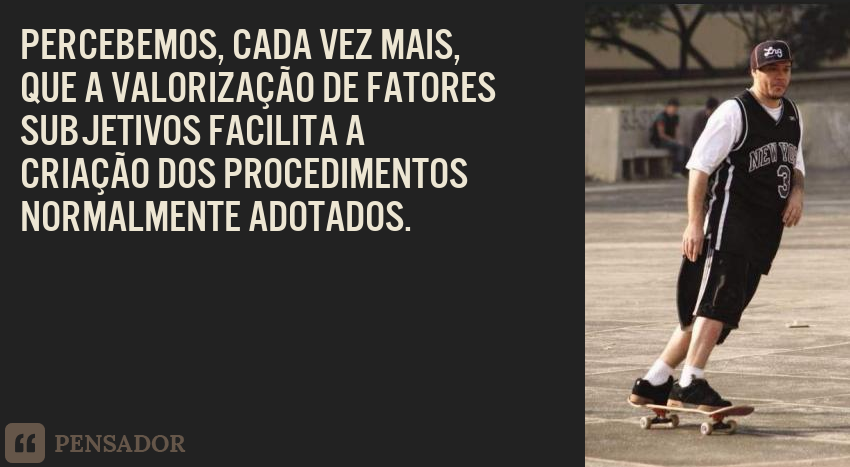
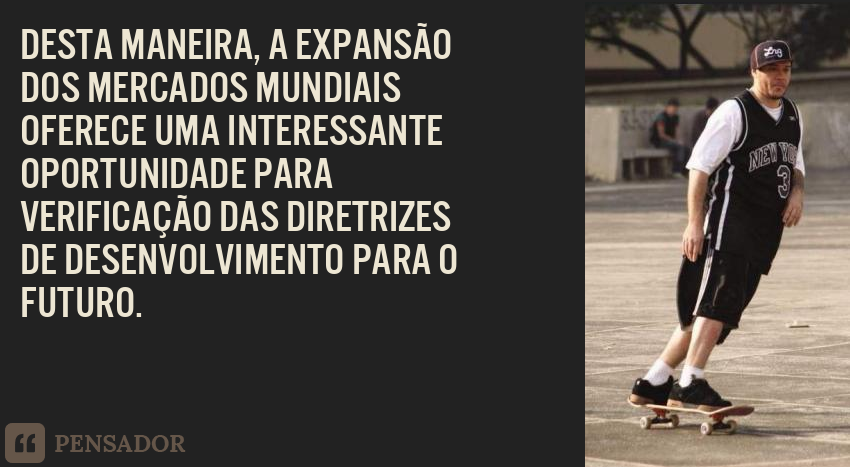
wip

Changed region(s): [[0.0, 0.06, 0.5812, 0.6895]]

diff --git a/myclub_website/events/templates/events/show_quote.html b/myclub_website/events/templates/events/show_quote.html
@@ -11,7 +11,7 @@
             </thead>
             <tbody>
                 <!-- <tr>
-                    <td align="left">{{ teste }}</td>
+                    <td align="left">{{ answer }}</td>
                 </tr> -->
                 <tr>
                     <img src="{%static 'img/choris-quotes.png'%}" alt="" class="img-fluid">

diff --git a/myclub_website/events/models.py b/myclub_website/events/models.py
@@ -3,6 +3,7 @@ from statistics import mode
 from django.db import models
 from PIL import Image, ImageFont, ImageDraw
 from textwrap import wrap
+#from myclub_website.events.views import generate
 
 class Event(models.Model):
     description = models.TextField()
@@ -16,9 +17,13 @@ class Event(models.Model):
         new_description = ""
         for i in wrap(str(descricao), width=28):
             new_description += i + "\n"
-        my_image = Image.open("/home/ricardo/projetos/myapplication/myclub_website/events/static/img/choris.png")
-        title_font = ImageFont.truetype('/home/ricardo/projetos/myapplication/myclub_website/events/static/fonts/US101.ttf', 45)
-        image_editable = ImageDraw.Draw(my_image)
-        image_editable.multiline_text((20,20), new_description, (237, 230, 211), font=title_font)
-        my_image.save("/home/ricardo/projetos/myapplication/myclub_website/events/static/img/choris-quotes.png")
+        len_description = len(new_description)
+        if len_description < 200:
+            my_image = Image.open("/home/ricardo/projetos/estudos/myapplication/myclub_website/events/static/img/choris.png")
+            title_font = ImageFont.truetype('/home/ricardo/projetos/estudos/myapplication/myclub_website/events/static/fonts/US101.ttf', 45)
+            image_editable = ImageDraw.Draw(my_image)
+            image_editable.multiline_text((20,20), new_description, (237, 230, 211), font=title_font)
+            my_image.save("/home/ricardo/projetos/estudos/myapplication/myclub_website/events/static/img/choris-quotes.png")
+        else:
+            new_description = 'Sorry, your citation cannot be generated. There is a limit of 200 characters.'
         return new_description

diff --git a/myclub_website/events/views.py b/myclub_website/events/views.py
@@ -29,6 +29,6 @@ def all_quote(request):
 
 def show_quote(request, quote_id):
     quote = Event.objects.get(pk=quote_id)
-    #description = Event.objects.get['description']
+    #answer = Event.save_image(quote)
     Event.save_image(quote)
     return render(request, 'events/show_quote.html', {'quote':quote})
